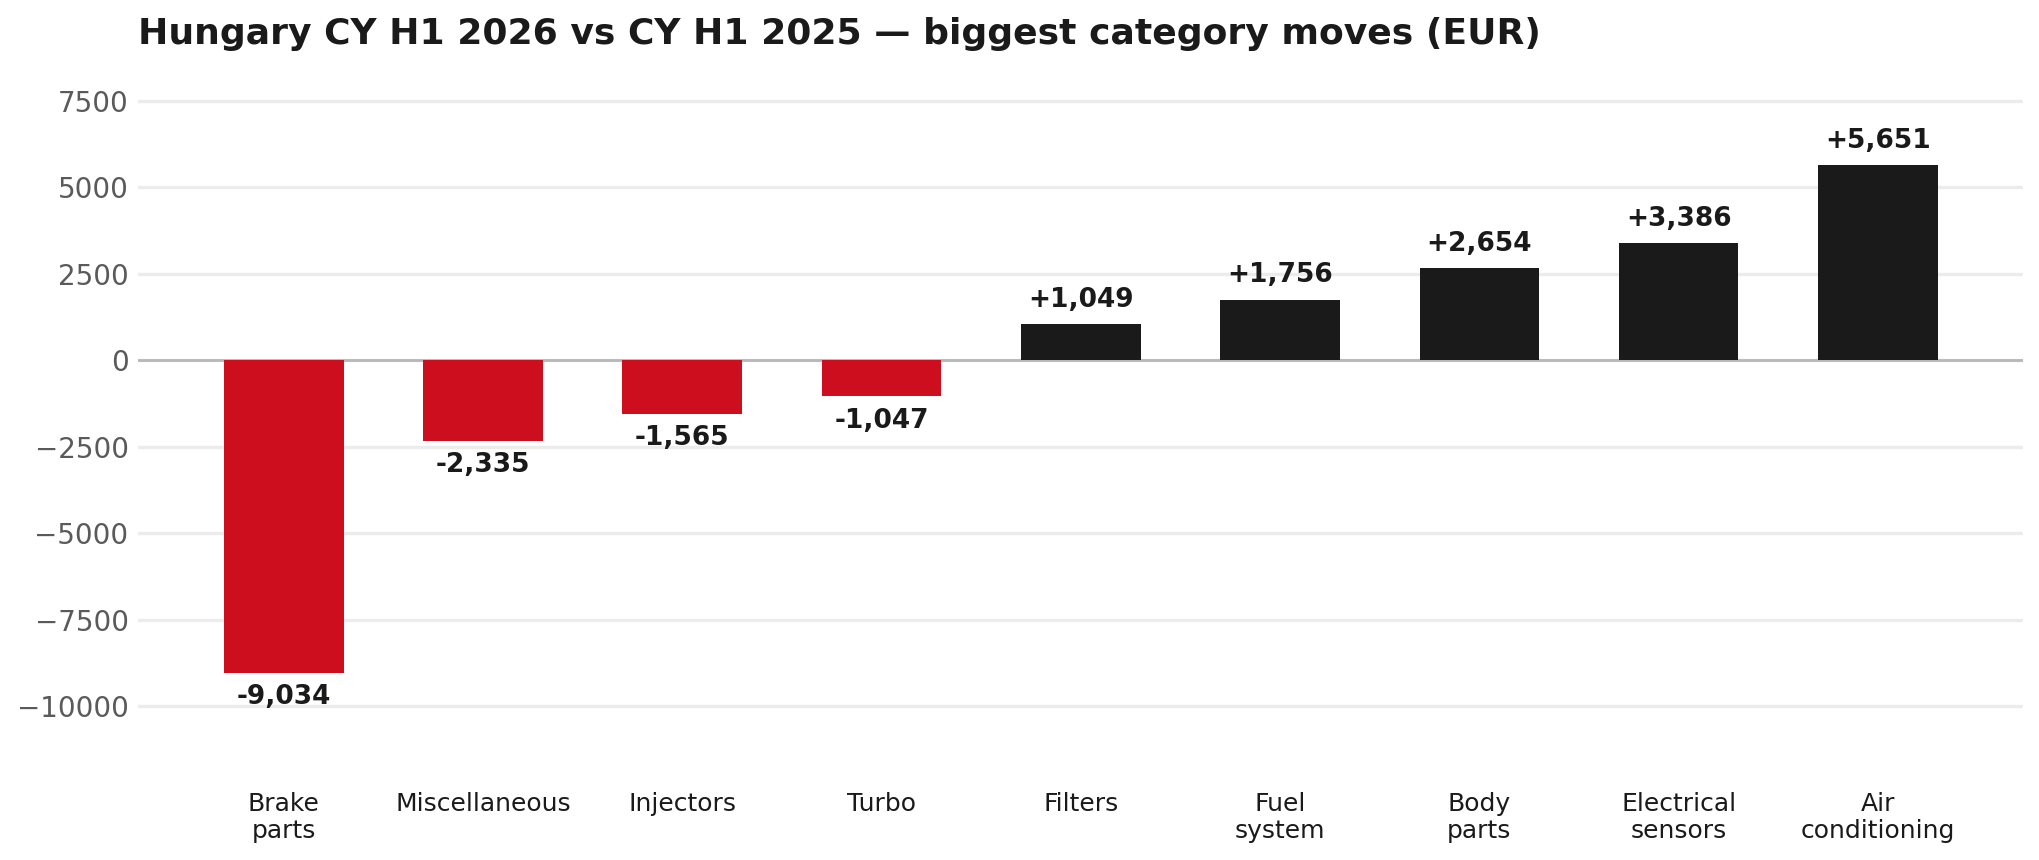
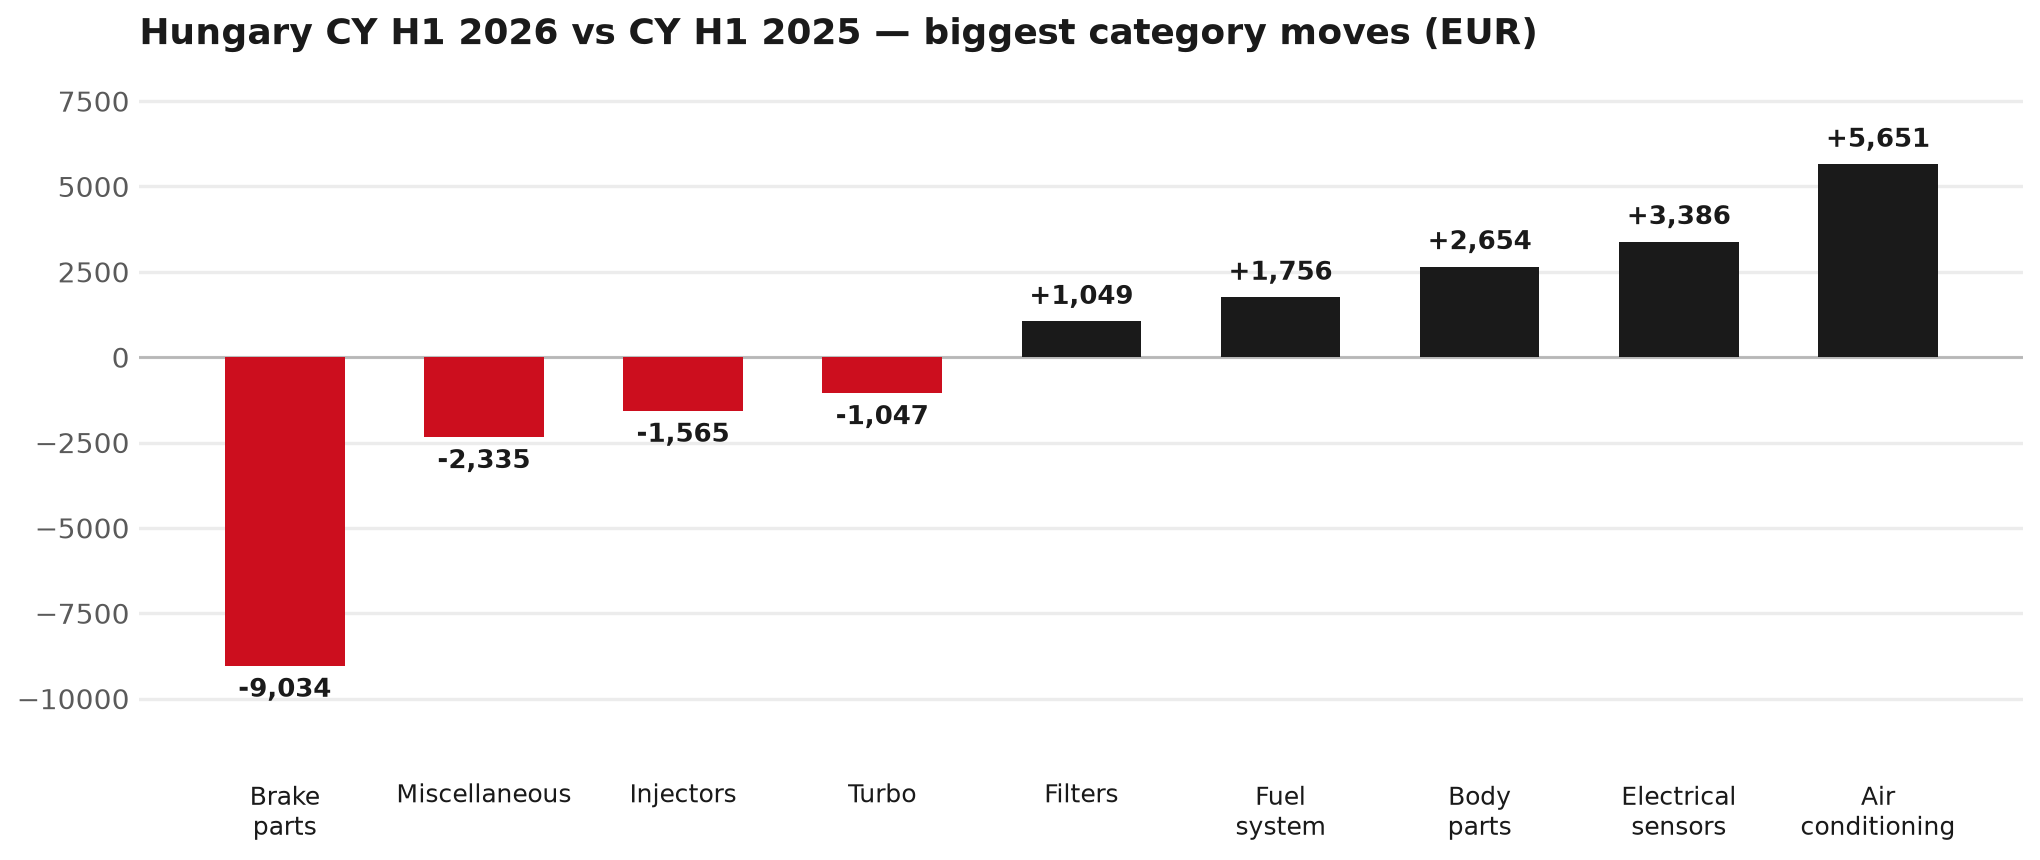
Fix DB sales-review toolchain: portable paths, fleet-chart label overlap, IDS title wrap
- common.py / build_deck.py: derive the ISZE root and template path from
  __file__ instead of a hardcoded Windows path, so the toolchain runs
  outside Jerome's local machine.
- build_deck.py: fall back to the cached _summary.json values for
  fy27/uio/gps_segmented when the live source workbooks (UIO overview,
  FY27 target) aren't present, instead of hard-failing.
- Fleet trend chart: a segment that is zero across the plotted 2019-2026
  window (e.g. a phased-out LD line, Hungary's case) was still counted as
  "populated" from its full multi-decade history, so it got drawn as its
  own series. When it's the only other segment, Total and the surviving
  segment become numerically identical for every plotted year and their
  end-of-line labels overlap into unreadable text. Now "populated" is
  judged on the plotted window, not full history.
- IDS 2026 slide title: shortened so it reliably fits one line regardless
  of country-name length — the old wording wrapped to two lines and
  collided with the divider rule and table below for any display name
  longer than "UK" (reproduces on the existing IUK deck too).
- Regenerated Hungary's cached chart PNGs with the fixed fleet chart.

diff --git a/04_tools/db_sales_review/build_deck.py b/04_tools/db_sales_review/build_deck.py
@@ -20,10 +20,11 @@ import io
 import json
 import os
 import sys
+from pathlib import Path
 
 sys.stdout = io.TextIOWrapper(sys.stdout.buffer, encoding="utf-8", errors="replace")
 
-TOOLS = r"C:\Users\jerom\Desktop\claude\ISZE\04_tools\ppt_template_v2"
+TOOLS = str((Path(__file__).resolve().parent.parent / "ppt_template_v2"))
 sys.path.insert(0, TOOLS)
 
 import isze_chart_theme as ct          # noqa: E402
@@ -213,11 +214,19 @@ def build(dbkey: str):
     S = json.loads(sfile.read_text(encoding="utf-8"))
     d = S["defaults"]
     # Live reload so fleet / GPS / S2D growth pick up the carpark pack without
-    # forcing a full parts-analysis rebuild.
-    fy = C.load_fy27(p)
+    # forcing a full parts-analysis rebuild. Falls back to the frozen values in
+    # _summary.json when the source workbooks (UIO overview, FY27 target) are
+    # not present on this machine — same numbers build_parts_analysis.py cached.
+    try:
+        fy = C.load_fy27(p)
+        gps = C.load_segmented_gps(p)
+        uio_live = C.load_uio(p)
+    except (FileNotFoundError, SystemExit) as e:
+        print(f"[{p['key']}] WARNING: live reload unavailable ({e}); using cached _summary.json values.")
+        fy = S["fy27"]
+        gps = S["gps_segmented"]
+        uio_live = S["uio"]
     s2d = fy["s2d_target"]
-    gps = C.load_segmented_gps(p)
-    uio_live = C.load_uio(p)
     pbi_raw = S["pbi"]
     pbi_complete = bool(
         pbi_raw
@@ -278,15 +287,22 @@ def build(dbkey: str):
     uio = uio_live
     total = {int(k): v for k, v in uio["total"].items()}
     years = [y for y in sorted(total) if 2019 <= y <= 2026]
-    series = {}
+    namemap = {"lcv": "LCV / D-Max", "ld": "CV — LD", "md": "CV — MD", "f_series": "F-Series"}
     segs = {k: v for k, v in uio.items() if k != "total"}
-    if len(segs) > 1:
-        namemap = {"lcv": "LCV / D-Max", "ld": "CV — LD", "md": "CV — MD", "f_series": "F-Series"}
+    # Only segments with real weight inside the plotted window count as "mixed" —
+    # a segment that is zero across 2019-2026 (even if it had volume decades
+    # earlier, e.g. a phased-out LD line) would otherwise duplicate the Total
+    # line exactly and collide with its end-of-line label.
+    populated = {}
+    for seg, vals in segs.items():
+        vv = {int(k): v for k, v in vals.items()}
+        if sum(vv.get(y, 0) for y in years) > 0:
+            populated[namemap.get(seg, seg)] = vv
+    series = {}
+    if len(populated) > 1:
         series["Total fleet"] = [total.get(y, 0) for y in years]
-        for seg, vals in sorted(segs.items(), key=lambda kv: -sum(kv[1].values())):
-            vv = {int(k): v for k, v in vals.items()}
-            if sum(vv.values()) > 0:
-                series[namemap.get(seg, seg)] = [vv.get(y, 0) for y in years]
+        for label, vv in sorted(populated.items(), key=lambda kv: -sum(kv[1].values())):
+            series[label] = [vv.get(y, 0) for y in years]
     else:
         series["Fleet (units)"] = [total.get(y, 0) for y in years]
     ct.trend_line([str(y) for y in years], series, cp("uio.png"),
@@ -511,9 +527,7 @@ def build(dbkey: str):
     if S["ids"]:
         I = S["ids"]
         s = db.build_content(
-            prs, f"IDS 2026: {disp} averages {I['db_avg']:.1f}%, "
-                 f"{'above' if I['db_avg'] >= I['network_avg'] else 'below'} the "
-                 f"{I['network_avg']:.1f}% network benchmark",
+            prs, f"IDS 2026: {disp} {I['db_avg']:.1f}% vs {I['network_avg']:.1f}% network",
             eyebrow="IDS 2026 — Dealer Standard", page_no=page)
         rows = [["Dealer", "Total %", "Global rank"]]
         rows += [[str(x["dealer"]).title(), f"{x['pts']:.1f}%", f"#{x['grank']}"] for x in I["top"]]

diff --git a/04_tools/db_sales_review/common.py b/04_tools/db_sales_review/common.py
@@ -17,10 +17,10 @@ import pandas as pd
 import yaml
 
 # --------------------------------------------------------------------- paths --
-ISZE = Path(r"C:\Users\jerom\Desktop\claude\ISZE")
+HERE = Path(__file__).resolve().parent
+ISZE = HERE.parent.parent
 DERIVED = ISZE / "01_data" / "00_derived"
 PRICING = ISZE / "01_data" / "01_Pricing"
-HERE = Path(__file__).resolve().parent
 PROFILES = HERE / "db_profiles.yaml"
 
 UIO_FILE = ISZE / "06_uio" / "_CURRENT" / "ISUZU_UIO_Overview_2026.xlsx"
